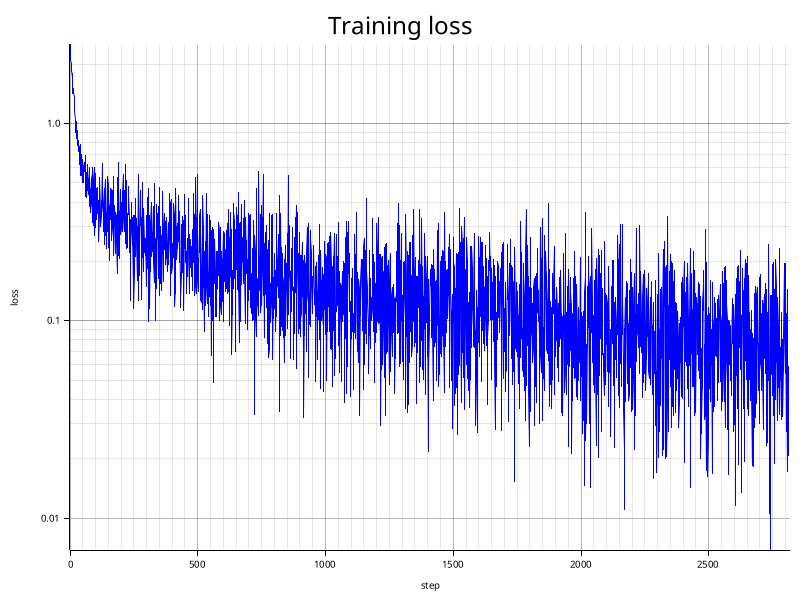
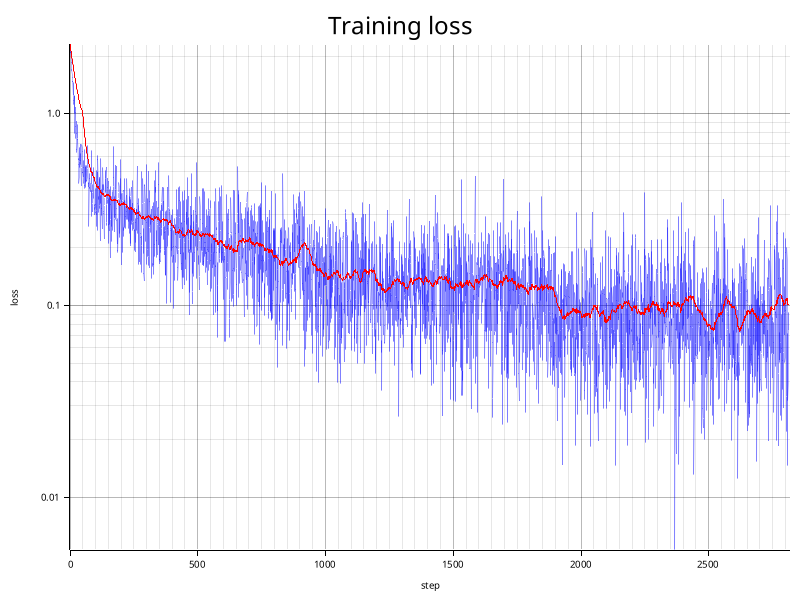
feat: add decision boundary plot, implemented to three_class example + cargo fmt

Changed region(s): [[0.0625, 0.18, 1.0, 0.87], [0.0625, 0.09, 0.9688, 0.12], [0.0625, 0.81, 0.0938, 0.87]]

diff --git a/src/visualizer.rs b/src/visualizer.rs
@@ -1,3 +1,6 @@
+use crate::autograd::Var;
+use crate::nn::Module;
+use crate::tensor::Tensor;
 use plotters::prelude::*;
 
 pub fn plot_loss(losses: &[f32], path: &str) -> Result<(), Box<dyn std::error::Error>> {
@@ -14,13 +17,138 @@ pub fn plot_loss(losses: &[f32], path: &str) -> Result<(), Box<dyn std::error::E
         .y_label_area_size(60)
         .build_cartesian_2d(0..losses.len(), (min..max).log_scale())?;
 
-    chart.configure_mesh().x_desc("step").y_desc("loss").draw()?;
+    chart
+        .configure_mesh()
+        .x_desc("step")
+        .y_desc("loss")
+        .draw()?;
 
     chart.draw_series(LineSeries::new(
         losses.iter().enumerate().map(|(i, &l)| (i, l)),
-        &BLUE,
+        &BLUE.mix(0.3),
+    ))?;
+    let means = moving_average(losses, 150);
+
+    chart.draw_series(LineSeries::new(
+        means.iter().enumerate().map(|(i, &l)| (i, l)),
+        &RED,
     ))?;
 
     root.present()?;
+    Ok(())
+}
+
+pub fn moving_average(values: &[f32], window: usize) -> Vec<f32> {
+    assert!(window > 0, "Value error, window : 0 ");
+    let mut means = Vec::new();
+    for i in 0..values.len() {
+        let start = i.saturating_sub(window - 1);
+        let slice = &values[start..=i];
+        let mean = slice.iter().sum::<f32>() / (slice.len() as f32);
+        means.push(mean);
+    }
+    means
+}
+
+pub fn make_grid(x_min: f32, x_max: f32, y_min: f32, y_max: f32, res: usize) -> Tensor {
+    let step_x = (x_max - x_min) / res as f32;
+    let step_y = (y_max - y_min) / res as f32;
+    let mut points = Vec::new();
+    for i in 0..res {
+        for j in 0..res {
+            let x = x_min + (i as f32) * step_x;
+            let y = y_min + (j as f32) * step_y;
+            points.push(x);
+            points.push(y);
+        }
+    }
+    Tensor::from_vec(points, res * res, 2)
+}
+
+pub fn plot_decision_boundary(
+    model: &dyn Module,
+    points: &Tensor,
+    labels: &[usize],
+    path: &str,
+) -> Result<(), Box<dyn std::error::Error>> {
+    assert_eq!(points.cols(), 2);
+
+    let root = BitMapBackend::new(path, (800, 600)).into_drawing_area();
+    root.fill(&WHITE)?;
+
+    let x_min = points
+        .data()
+        .iter()
+        .step_by(2)
+        .cloned()
+        .fold(f32::INFINITY, f32::min)
+        - 0.5;
+    let x_max = points
+        .data()
+        .iter()
+        .step_by(2)
+        .cloned()
+        .fold(f32::NEG_INFINITY, f32::max)
+        + 0.5;
+
+    let y_min = points
+        .data()
+        .iter()
+        .skip(1)
+        .step_by(2)
+        .cloned()
+        .fold(f32::INFINITY, f32::min)
+        - 0.5;
+    let y_max = points
+        .data()
+        .iter()
+        .skip(1)
+        .step_by(2)
+        .cloned()
+        .fold(f32::NEG_INFINITY, f32::max)
+        + 0.5;
+
+    let res = 200;
+
+    let step_x = (x_max - x_min) / res as f32;
+    let step_y = (y_max - y_min) / res as f32;
+
+    let grid = make_grid(x_min, x_max, y_min, y_max, res);
+    let output = model.forward(&Var::new(grid));
+    let classes = output.data().argmax_rows();
+
+    let mut chart = ChartBuilder::on(&root)
+        .caption("Decision boundary", ("sans-serif", 30))
+        .margin(10)
+        .x_label_area_size(40)
+        .y_label_area_size(60)
+        .build_cartesian_2d(x_min..x_max, y_min..y_max)?;
+
+    chart.configure_mesh().x_desc("x").y_desc("y").draw()?;
+
+    chart.draw_series((0..res * res).map(|k| {
+        let i = k / res;
+        let j = k % res;
+        let corner1 = (x_min + (i as f32) * step_x, y_min + (j as f32) * step_y);
+        let corner2 = (
+            x_min + ((i + 1) as f32) * step_x,
+            y_min + ((j + 1) as f32) * step_y,
+        );
+        Rectangle::new(
+            [corner1, corner2],
+            Palette99::pick(classes[k]).mix(0.3).filled(),
+        )
+    }))?;
+
+    chart.draw_series((0..points.rows()).map(|r| {
+        Circle::new(
+            (points.get(r, 0), points.get(r, 1)),
+            4,
+            Palette99::pick(labels[r]).filled(),
+        )
+    }))?;
+
+    root.present()?;
+
     Ok(())
 }

diff --git a/tests/data.rs b/tests/data.rs
@@ -1,50 +1,49 @@
-use micrograd_rs::{data::{DataLoader}, tensor::Tensor};
-
+use micrograd_rs::{data::DataLoader, tensor::Tensor};
 
 #[test]
-fn shuffled_indices_does_not_loose_value(){
+fn shuffled_indices_does_not_loose_value() {
     let rows = rand::random_range(1..10);
     let cols = rand::random_range(1..10);
-    let inputs:Tensor= Tensor::rand(rows,cols);
-    let labels=(0..rows).collect::<Vec<usize>>();
-    let n_classes=rand::random_range(1..10);
-    let batch_size=rand::random_range(1..10);
-    let dataloader=DataLoader::new(inputs, labels, n_classes, batch_size);
-    let mut indices=dataloader.shuffled_indices();
+    let inputs: Tensor = Tensor::rand(rows, cols);
+    let labels = (0..rows).collect::<Vec<usize>>();
+    let n_classes = rand::random_range(1..10);
+    let batch_size = rand::random_range(1..10);
+    let dataloader = DataLoader::new(inputs, labels, n_classes, batch_size);
+    let mut indices = dataloader.shuffled_indices();
     indices.sort();
-    assert_eq!(indices,(0..rows).collect::<Vec<usize>>());
+    assert_eq!(indices, (0..rows).collect::<Vec<usize>>());
 }
 
 #[test]
-fn batch_size_check(){
+fn batch_size_check() {
     let rows = rand::random_range(1..10);
     let cols = rand::random_range(1..10);
-    let inputs:Tensor= Tensor::rand(rows,cols);
-    let labels=(0..rows).collect::<Vec<usize>>();
-    let n_classes=rows;
-    let batch_size=rand::random_range(1..10);
-    let dataloader=DataLoader::new(inputs, labels, n_classes, batch_size);
-    let indices=dataloader.shuffled_indices();
-    let (x,y)=dataloader.batch(&indices);
-    assert_eq!(x.rows(),indices.len());
-    assert_eq!(y.rows(),indices.len());
-    assert_eq!(x.cols(),cols);
-    assert_eq!(y.cols(),n_classes);
+    let inputs: Tensor = Tensor::rand(rows, cols);
+    let labels = (0..rows).collect::<Vec<usize>>();
+    let n_classes = rows;
+    let batch_size = rand::random_range(1..10);
+    let dataloader = DataLoader::new(inputs, labels, n_classes, batch_size);
+    let indices = dataloader.shuffled_indices();
+    let (x, y) = dataloader.batch(&indices);
+    assert_eq!(x.rows(), indices.len());
+    assert_eq!(y.rows(), indices.len());
+    assert_eq!(x.cols(), cols);
+    assert_eq!(y.cols(), n_classes);
 }
 
 #[test]
-fn batch_keep_labels_and_corresponding_data_at_the_same_indices(){
+fn batch_keep_labels_and_corresponding_data_at_the_same_indices() {
     let rows = rand::random_range(1..10);
-    let input_data=(0..rows).map(|i| i as f32).collect();
-    let inputs:Tensor= Tensor::from_vec(input_data, rows, 1);
-    let labels=(0..rows).collect::<Vec<usize>>();
-    let n_classes=rows;
-    let batch_size=rand::random_range(1..10);
-    let dataloader=DataLoader::new(inputs, labels, n_classes, batch_size);
-    let indices=dataloader.shuffled_indices();
-    let (x,y)=dataloader.batch(&indices);
-    let max_row=y.argmax_rows();
-    for i in 0..indices.len(){
+    let input_data = (0..rows).map(|i| i as f32).collect();
+    let inputs: Tensor = Tensor::from_vec(input_data, rows, 1);
+    let labels = (0..rows).collect::<Vec<usize>>();
+    let n_classes = rows;
+    let batch_size = rand::random_range(1..10);
+    let dataloader = DataLoader::new(inputs, labels, n_classes, batch_size);
+    let indices = dataloader.shuffled_indices();
+    let (x, y) = dataloader.batch(&indices);
+    let max_row = y.argmax_rows();
+    for i in 0..indices.len() {
         assert_eq!(x.get(i, 0), max_row[i] as f32)
     }
 }

diff --git a/examples/mnist.rs b/examples/mnist.rs
@@ -1,42 +1,48 @@
-use micrograd_rs::{data::{DataLoader, mnist::{load_images, load_labels}}, loss::cross_entropy_loss, nn::{Linear, Module, Relu, Sequential}, optimizer::{Adam, Optimizer}};
 use micrograd_rs::autograd::Var;
-use micrograd_rs::vizualizer::plot_loss;
+use micrograd_rs::visualizer::plot_loss;
+use micrograd_rs::{
+    data::{
+        DataLoader,
+        mnist::{load_images, load_labels},
+    },
+    loss::cross_entropy_loss,
+    nn::{Linear, Module, Relu, Sequential},
+    optimizer::{Adam, Optimizer},
+};
 
-
-
-fn main(){
+fn main() {
     let start = std::time::Instant::now();
     let train_images = load_images("data/mnist/train-images-idx3-ubyte");
     let train_labels = load_labels("data/mnist/train-labels-idx1-ubyte");
     let test_images = load_images("data/mnist/t10k-images-idx3-ubyte");
     let test_labels = load_labels("data/mnist/t10k-labels-idx1-ubyte");
-    let dataloader=DataLoader::new(train_images, train_labels, 10, 64);
-    let n_epochs: i32=3; //how many time model see all the data
-    let mut losses=Vec::new();
+    let dataloader = DataLoader::new(train_images, train_labels, 10, 64);
+    let n_epochs: i32 = 3; //how many time model see all the data
+    let mut losses = Vec::new();
     let model = Sequential::new(vec![
-        Box::new(Linear::new(784,128)),
+        Box::new(Linear::new(784, 128)),
         Box::new(Relu),
-        Box::new(Linear::new(128, 10))
+        Box::new(Linear::new(128, 10)),
     ]);
-    let lr=0.001;
-    let mut adam=Adam::new(model.parameters(), lr);
-    for epoch in 0..n_epochs{
+    let lr = 0.001;
+    let mut adam = Adam::new(model.parameters(), lr);
+    for epoch in 0..n_epochs {
         let indices = dataloader.shuffled_indices();
-        for (i,chunk) in indices.chunks(dataloader.batch_size()).enumerate(){
+        for (i, chunk) in indices.chunks(dataloader.batch_size()).enumerate() {
             let (x, y) = dataloader.batch(chunk);
-            let output=model.forward(&Var::new(x));
-            let loss=cross_entropy_loss(&output, &Var::new(y));
-            losses.push(loss.data().get(0,0));
+            let output = model.forward(&Var::new(x));
+            let loss = cross_entropy_loss(&output, &Var::new(y));
+            losses.push(loss.data().get(0, 0));
             adam.zero_grad();
             loss.backward();
             adam.step();
-            if i%100==0{
-                println!("epoch {epoch}, batch {i}: loss {}",loss.data().get(0,0));
+            if i % 100 == 0 {
+                println!("epoch {epoch}, batch {i}: loss {}", loss.data().get(0, 0));
             }
         }
     }
     println!("{:?}", start.elapsed());
-    let output=model.forward(&Var::new(test_images));
+    let output = model.forward(&Var::new(test_images));
     let pred = output.data().argmax_rows();
     let truth = test_labels;
     let corrects = pred
@@ -46,6 +52,5 @@ fn main(){
         .count();
     let accuracy = corrects as f32 / (truth.len()) as f32;
     println!("accuracy: {accuracy}");
-    plot_loss(&losses,"plot_results/losses_mnst.png").unwrap();
-
+    plot_loss(&losses, "plot_results/losses_mnst.png").unwrap();
 }

diff --git a/src/data.rs b/src/data.rs
@@ -23,29 +23,43 @@ pub struct DataLoader {
     batch_size: usize,
 }
 
-impl DataLoader{
-    pub fn new(inputs:Tensor,labels: Vec<usize>,n_classes: usize, batch_size: usize)->DataLoader{
-        assert_eq!(inputs.rows(),labels.len(),"inputs and labels must have the same number of examples");
-        DataLoader { inputs, labels, n_classes, batch_size }
+impl DataLoader {
+    pub fn new(
+        inputs: Tensor,
+        labels: Vec<usize>,
+        n_classes: usize,
+        batch_size: usize,
+    ) -> DataLoader {
+        assert_eq!(
+            inputs.rows(),
+            labels.len(),
+            "inputs and labels must have the same number of examples"
+        );
+        DataLoader {
+            inputs,
+            labels,
+            n_classes,
+            batch_size,
+        }
     }
-    pub fn shuffled_indices(&self) -> Vec<usize>{
+    pub fn shuffled_indices(&self) -> Vec<usize> {
         let mut indices: Vec<usize> = (0..self.inputs.rows()).collect();
         indices.shuffle(&mut rand::rng());
 
         indices
     }
-    pub fn batch_size(&self) -> usize{
+    pub fn batch_size(&self) -> usize {
         self.batch_size
     }
 
-    pub fn batch(&self, indices: &[usize]) -> (Tensor, Tensor){
-        let x=self.inputs.select_rows(indices);
-        let mut batch_labels=Vec::new();
-        for &i in indices{
-           batch_labels.push(self.labels[i]);
+    pub fn batch(&self, indices: &[usize]) -> (Tensor, Tensor) {
+        let x = self.inputs.select_rows(indices);
+        let mut batch_labels = Vec::new();
+        for &i in indices {
+            batch_labels.push(self.labels[i]);
         }
-        let y =one_hot(&batch_labels, self.n_classes);
+        let y = one_hot(&batch_labels, self.n_classes);
 
-        (x,y)
+        (x, y)
     }
 }

diff --git a/examples/three_class.rs b/examples/three_class.rs
@@ -3,6 +3,7 @@ use micrograd_rs::loss::cross_entropy_loss;
 use micrograd_rs::nn::{Linear, Module, Sequential, Tanh};
 use micrograd_rs::optimizer::{Adam, Optimizer};
 use micrograd_rs::tensor::Tensor;
+use micrograd_rs::visualizer::plot_decision_boundary;
 
 fn main() {
     let n_step = 3000;
@@ -58,5 +59,12 @@ fn main() {
         .filter(|(a, b)| a == b)
         .count();
     let accuracy = corrects as f32 / (3 * n_data_per_class) as f32;
+    plot_decision_boundary(
+        &model,
+        &input.data(),
+        &truth,
+        "plot_results/boundary_decision_three_class.png",
+    )
+    .unwrap();
     println!("accuracy: {accuracy}")
 }

diff --git a/src/nn.rs b/src/nn.rs
@@ -12,9 +12,9 @@ pub struct Linear {
 
 impl Linear {
     pub fn new(n_inputs: usize, n_outputs: usize) -> Linear {
-        let limit=(6.0/n_inputs as f32).sqrt();
+        let limit = (6.0 / n_inputs as f32).sqrt();
         let w = Var::new(Tensor::rand(n_inputs, n_outputs).scale(limit));
-        let b = Var::new(Tensor::fill(1, n_outputs,0.0));
+        let b = Var::new(Tensor::fill(1, n_outputs, 0.0));
         Linear { w, b }
     }
 }
